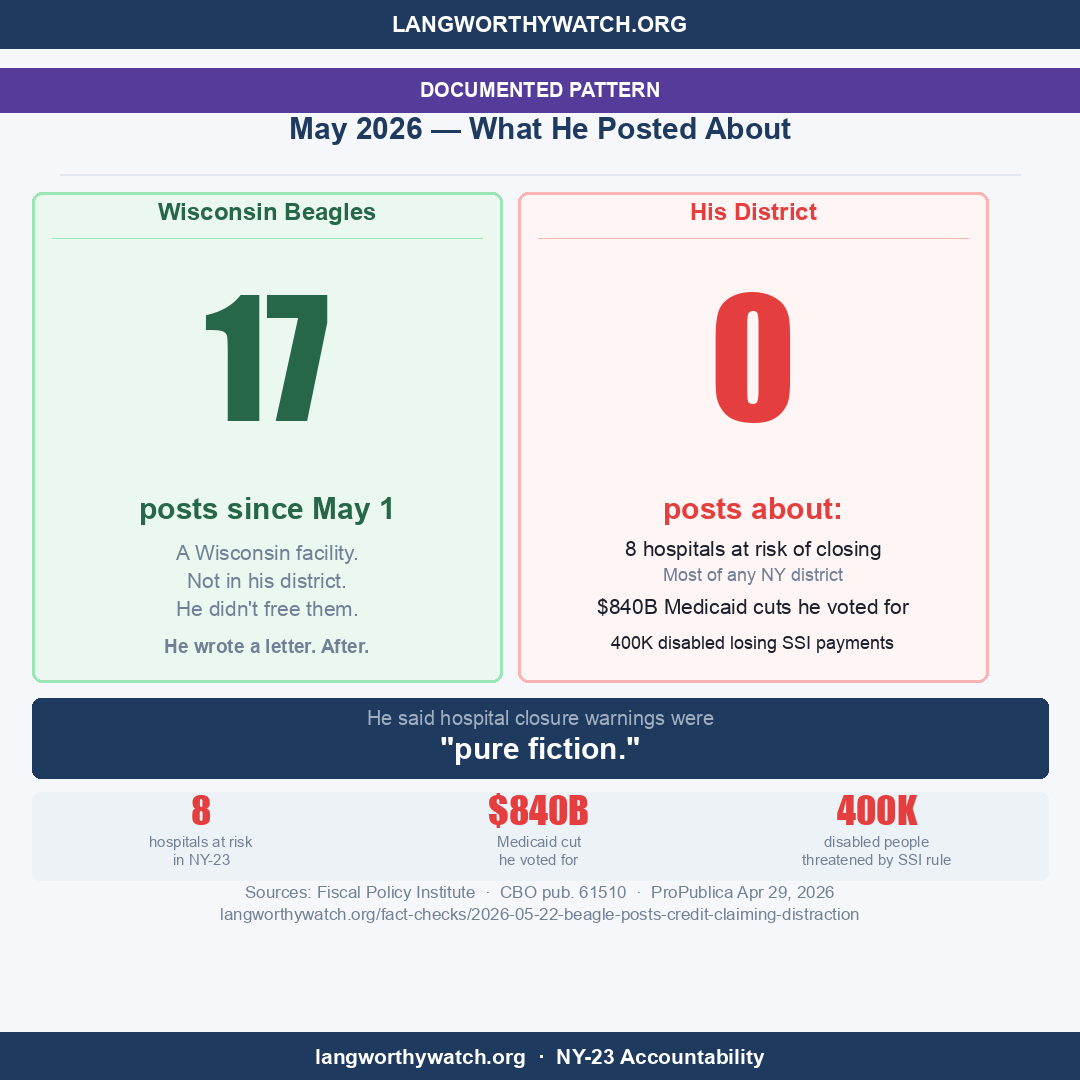
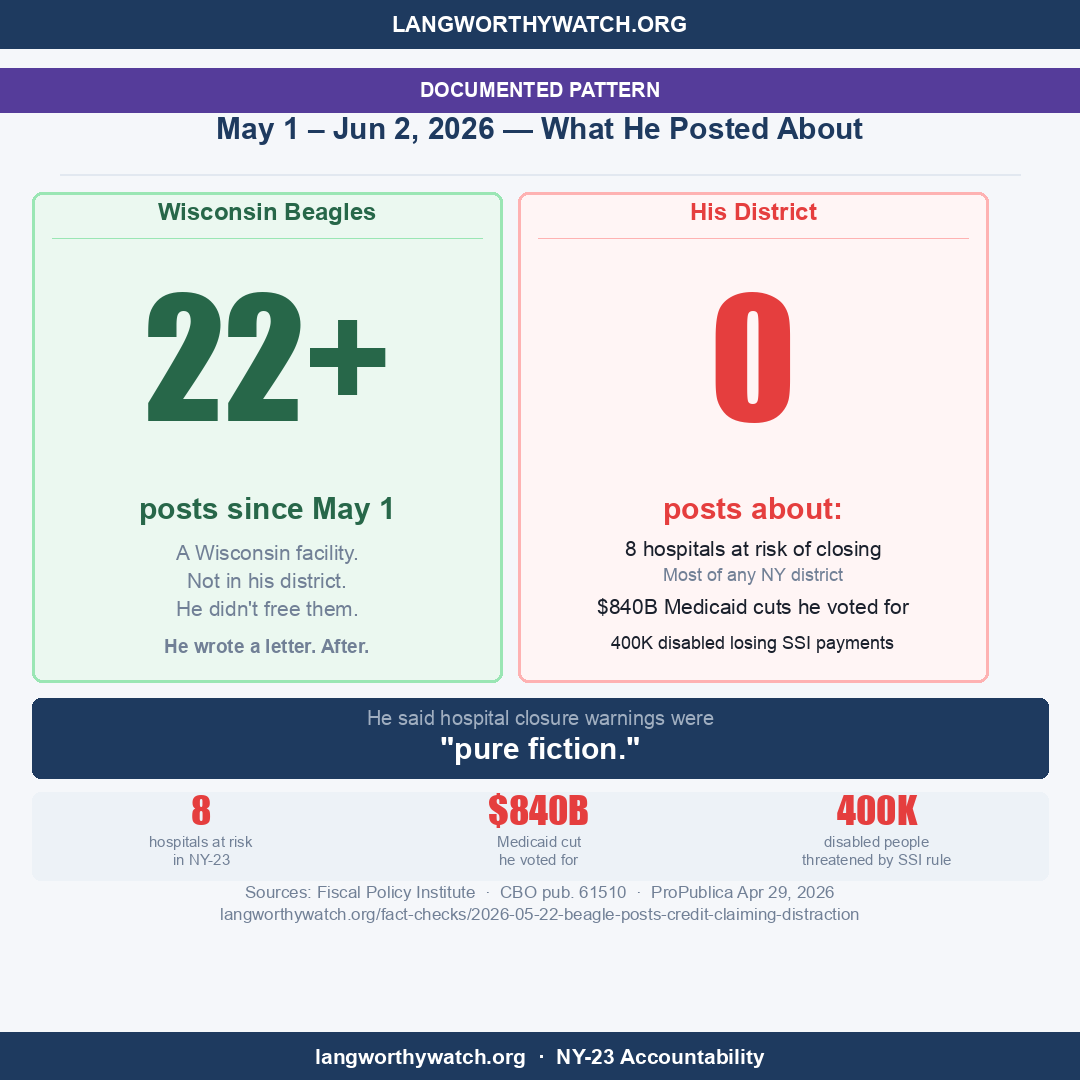
fix: beagle pattern entry — correct count 17→22+ (card showed 17, entry text undercounted as 'a dozen')
The original May 22 social card hardcoded the count as "17 posts since
May 1" — the entry prose conservatively summarized it as "a dozen,"
which was inconsistent with the card itself. Caught during June 2
review. The June 2 update of +5 Marshall Farms / RFK Jr / animal
testing posts (May 27 – June 2) brings the running total to 22+.
Title, overview, summary table, and social card all updated to the
corrected 22+ count and May 1 – Jun 2 date range.

Changed region(s): [[0.1833, 0.0917, 0.7944, 0.1528], [0.1222, 0.2444, 0.3667, 0.3972]]

diff --git a/social-media/create_beagle_priorities_card.py b/social-media/create_beagle_priorities_card.py
@@ -51,7 +51,7 @@ draw.rectangle([(0, y), (WIDTH, y + strip_h)], fill=PURPLE)
 draw.text((WIDTH//2, y + strip_h//2), "DOCUMENTED PATTERN", fill=WHITE, font=f_tag, anchor="mm")
 y += strip_h + 16
 
-draw.text((WIDTH//2, y), "May 2026 — What He Posted About", fill=NAVY, font=f_topic, anchor="mm")
+draw.text((WIDTH//2, y), "May 1 – Jun 2, 2026 — What He Posted About", fill=NAVY, font=f_topic, anchor="mm")
 y += 46
 draw.line([(60, y), (WIDTH-60, y)], fill=BORDER, width=2)
 y += 18
@@ -69,7 +69,7 @@ draw.rounded_rectangle([(lx, y), (lx+col_w, y+col_h)], radius=10,
 draw.text((lx+col_w//2, y+20), "Wisconsin Beagles", fill=GREEN,
           font=font("Arial Bold.ttf", 24), anchor="mm")
 draw.line([(lx+20, y+46), (lx+col_w-20, y+46)], fill="#9AE6B4", width=1)
-draw.text((lx+col_w//2, y+165), "17", fill=GREEN, font=f_big, anchor="mm")
+draw.text((lx+col_w//2, y+165), "22+", fill=GREEN, font=f_big, anchor="mm")
 draw.text((lx+col_w//2, y+316), "posts since May 1", fill=GREEN,
           font=font("Arial Bold.ttf", 30), anchor="mm")
 draw.text((lx+col_w//2, y+360), "A Wisconsin facility.", fill=MUTED, font=f_sub, anchor="mm")

diff --git a/content/fact-checks/2026-05-22-beagle-posts-credit-claiming-distraction.md b/content/fact-checks/2026-05-22-beagle-posts-credit-claiming-distraction.md
@@ -1,11 +1,11 @@
 ---
-title: "Priorities: Seventeen-Plus Posts About Beagles He Didn't Free. Zero About the District Closures Mounting Around Him."
+title: "Priorities: Twenty-Two Posts About Beagles He Didn't Free. Zero About the District Closures Mounting Around Him."
 date: 2026-05-22
 lastmod: 2026-06-02
 categories:
   - "Government Transparency / Priorities"
 verdict: "DOCUMENTED PATTERN"
-source: "Multiple Facebook Posts, May 3 – Jun 2, 2026"
+source: "Multiple Facebook Posts, May 1 – Jun 2, 2026"
 reported_by: "Wellsville Sun, WGRZ, Gateway Pundit, Lancaster Bee, Buffalo News"
 county:
   - "District-wide"
@@ -19,11 +19,11 @@ slug: "2026-05-22-beagle-posts-credit-claiming-distraction"
 
 ## Overview
 
-Between May 3 and June 2, 2026, Congressman Langworthy published **at least 17 Facebook posts, constituent surveys, and press releases** about the release of beagles from Ridglan Farms (a Wisconsin research breeding facility) and a related "Marshall Farms" advocacy campaign at a separate breeding facility in North Rose, NY. He held a beagle for photos. He launched a constituent survey. He introduced an FY2027 appropriations request. He attended a "huge rally" outside Marshall Farms. He produced multi-angle video content with apparent professional camera-crew coverage. He called it a "quest."
+Between May 1 and June 2, 2026, Congressman Langworthy published **at least 22 Facebook posts, constituent surveys, and press releases** about the release of beagles from Ridglan Farms (a Wisconsin research breeding facility) and a related "Marshall Farms" advocacy campaign at a separate breeding facility in North Rose, NY. He held a beagle for photos. He launched a constituent survey. He introduced an FY2027 appropriations request. He attended a "huge rally" outside Marshall Farms. He produced multi-angle video content with apparent professional camera-crew coverage. He called it a "quest."
 
-**The original five-month-long count of "a dozen" — updated June 2 — is now 17+, with five additional Marshall Farms / RFK Jr / animal testing posts in the May 27 – June 2 window alone.**
+**The count as documented in the original May 22 social card was 17 posts since May 1; updated June 2 to add five more Marshall Farms / RFK Jr / animal testing posts in the May 27 – June 2 window, for a running total of 22+.**
 
-In the same one-month window, he posted nothing about:
+In the same five-week window, he posted nothing about:
 
 - The **Jennie B. Richmond Nursing Home in Springville (Erie Co.)** — 80 beds — entering "orderly closure" beginning June 2026 per Bertrand Chaffee Hospital CEO (financial challenges, staffing, capital needs). *Buffalo News*, June 2026.
 - **Bradford Regional Medical Center** (operated by Kaleida; immediately across the PA line and the regional anchor for NY-23's Cattaraugus/Allegany patients) — formal February 2026 closure notice ending inpatient, emergency, and long-term care by mid-2026. Olean General is now the sole remaining acute-care anchor in that catchment.

diff --git a/content/fact-checks/_index.md b/content/fact-checks/_index.md
@@ -31,7 +31,7 @@ Each fact-check includes:
 | [The Company in the District: Corning, the Reconciliation Bill, and $65,775 in Donations](/fact-checks/2026-05-29-corning-manufacturing-credits-obbba/) | Corning Inc. spent $700K+ lobbying on the reconciliation bill while it was being drafted; OBBBA preserved and enhanced manufacturing tax credits directly benefiting Corning's solar wafer plant and semiconductor operations; 62 Corning employees — including the CEO, CFO, and government affairs staff — donated $65,775 to Langworthy's committees, primarily in the two months after the vote | **DOCUMENTED PATTERN** |
 | [Nursing Home Donations and the Staffing Rule That Disappeared](/fact-checks/2026-05-28-nursing-home-staffing-donations/) | Nursing home operator Benjamin Landa contributed at least $68,700 to Langworthy's campaign committees (2022–2025, all pre-vote); Langworthy voted YES on OBBBA Section 71111 (Roll Call 190, Jul. 3, 2025), blocking CMS's nursing home staffing rule until 2034 — 55% of Landa's 106 facilities fall below the RN standard the moratorium prevents from being enforced; every facility carries CMS's abuse icon | **DOCUMENTED PATTERN** |
 | [Propane / "All-of-the-Above" Energy](/fact-checks/2026-05-23-propane-all-of-the-above-energy/) | "I'll always fight for an 'all-of-the-above' energy strategy that protects choice and keeps costs low" — voted NO on IRA ($391B in clean energy incl. rural solar/REAP), voted YES on OBBBA which repealed clean energy tax credits affecting 271+ rural projects | **MISSING CONTEXT** |
-| [Beagle Posts: Priorities](/fact-checks/2026-05-22-beagle-posts-credit-claiming-distraction/) | **Updated June 2 — count now 17+** posts about beagles he didn't free (May 3 – Jun 2), plus polished multi-angle production at Marshall Farms, Home Day Horseheads, and Memorial Day Lancaster while: Springville's Jennie B. Richmond Nursing Home (80 beds, Erie Co.) enters orderly closure; Bradford Regional ends inpatient/ER/LTC by mid-2026; Chautauqua WARN logs ~1,990 layoffs through March; SSI bedroom rule, $840B Medicaid cuts, $186B SNAP cuts all unaddressed | **DOCUMENTED PATTERN** |
+| [Beagle Posts: Priorities](/fact-checks/2026-05-22-beagle-posts-credit-claiming-distraction/) | **Updated June 2 — count now 22+** posts about beagles he didn't free (May 1 – Jun 2; original card-tracked count was 17 through May 22, +5 added for May 27 – June 2), plus polished multi-angle production at Marshall Farms, Home Day Horseheads, and Memorial Day Lancaster while: Springville's Jennie B. Richmond Nursing Home (80 beds, Erie Co.) enters orderly closure; Bradford Regional ends inpatient/ER/LTC by mid-2026; Chautauqua WARN logs ~1,990 layoffs through March; SSI bedroom rule, $840B Medicaid cuts, $186B SNAP cuts all unaddressed | **DOCUMENTED PATTERN** |
 | [Scaffold Law / Infrastructure Expansion Act](/fact-checks/2026-05-20-scaffold-law-infrastructure-expansion-act/) | Bill framed as "saving tax dollars" by preempting NY's "outdated absolute liability standard" — omits that Labor Law §240 has protected construction workers from fall liability since 1885; construction unions oppose; bill not passed | **MISSING CONTEXT** |
 | [Federal Grants: $16.6M in One Week, Zero Earmarks](/fact-checks/2026-05-20-federal-grants-credit-claiming-may2026/) | Four posts in one week claiming personal credit for USDA water grant ($3.2M), FAA Airport Improvement Program ($5.7M Jamestown), HHS/SAMHSA behavioral health ($7.7M) — all automatic formula programs requiring no congressional direction | **DOCUMENTED PATTERN** |
 | [Prison Safety: HALT Act Blame](/fact-checks/2026-05-20-halt-act-collins-causal-claim/) | Two posts (May 19–20) claim Collins Correctional attacks "are the result of" the HALT Act — staff assaults were rising years before HALT existed; prisons were routinely violating the 15-day limit; research does not support the causal claim | **MISLEADING** |